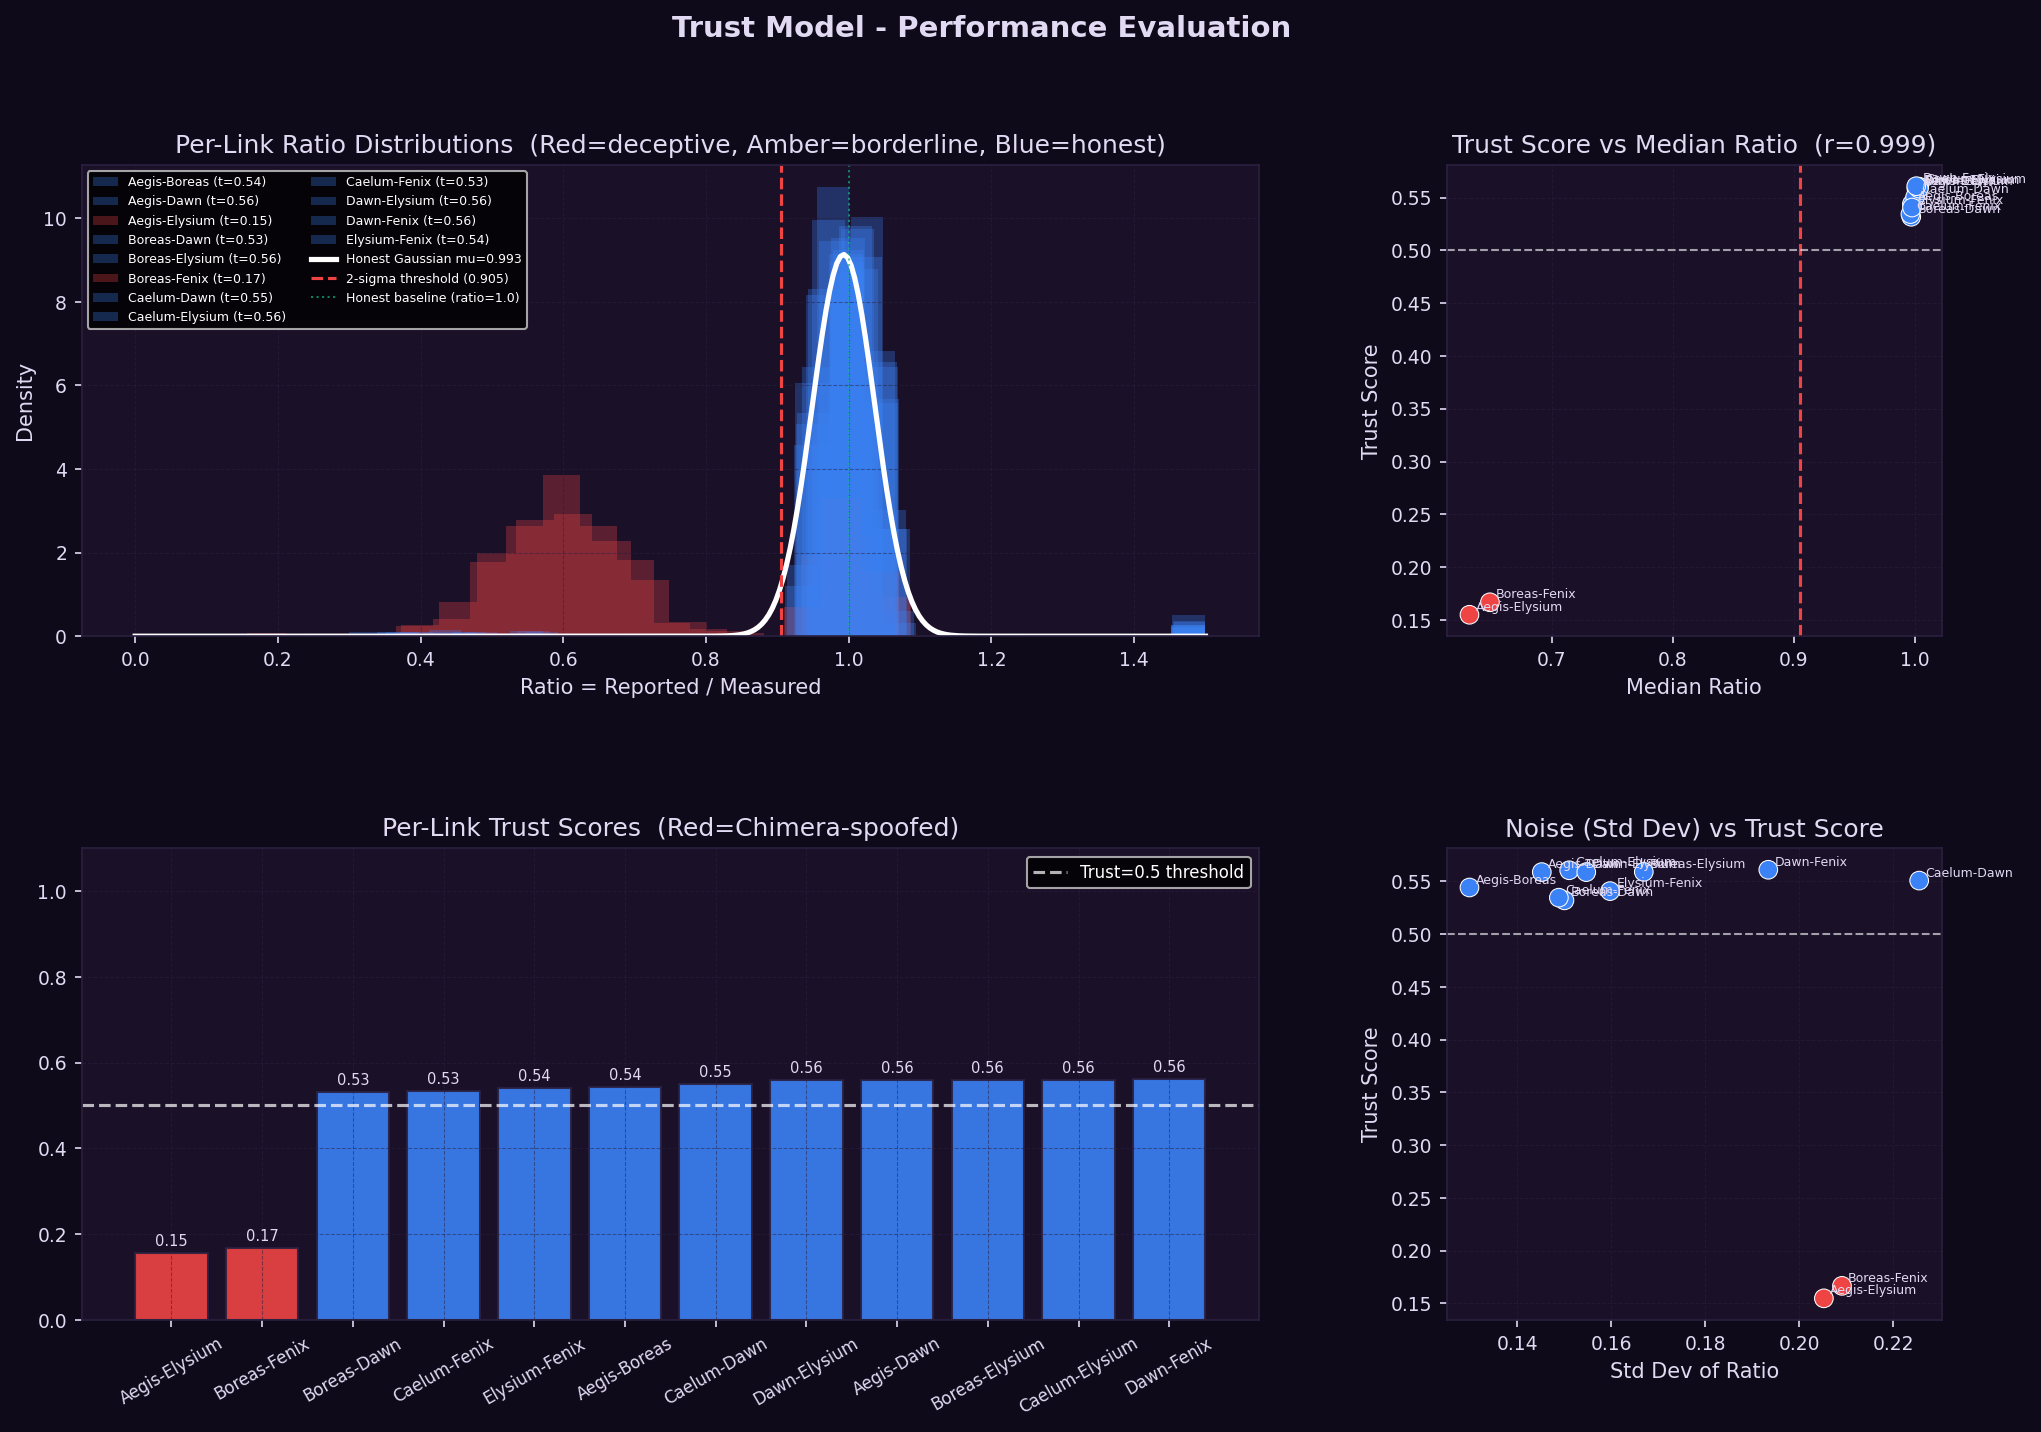
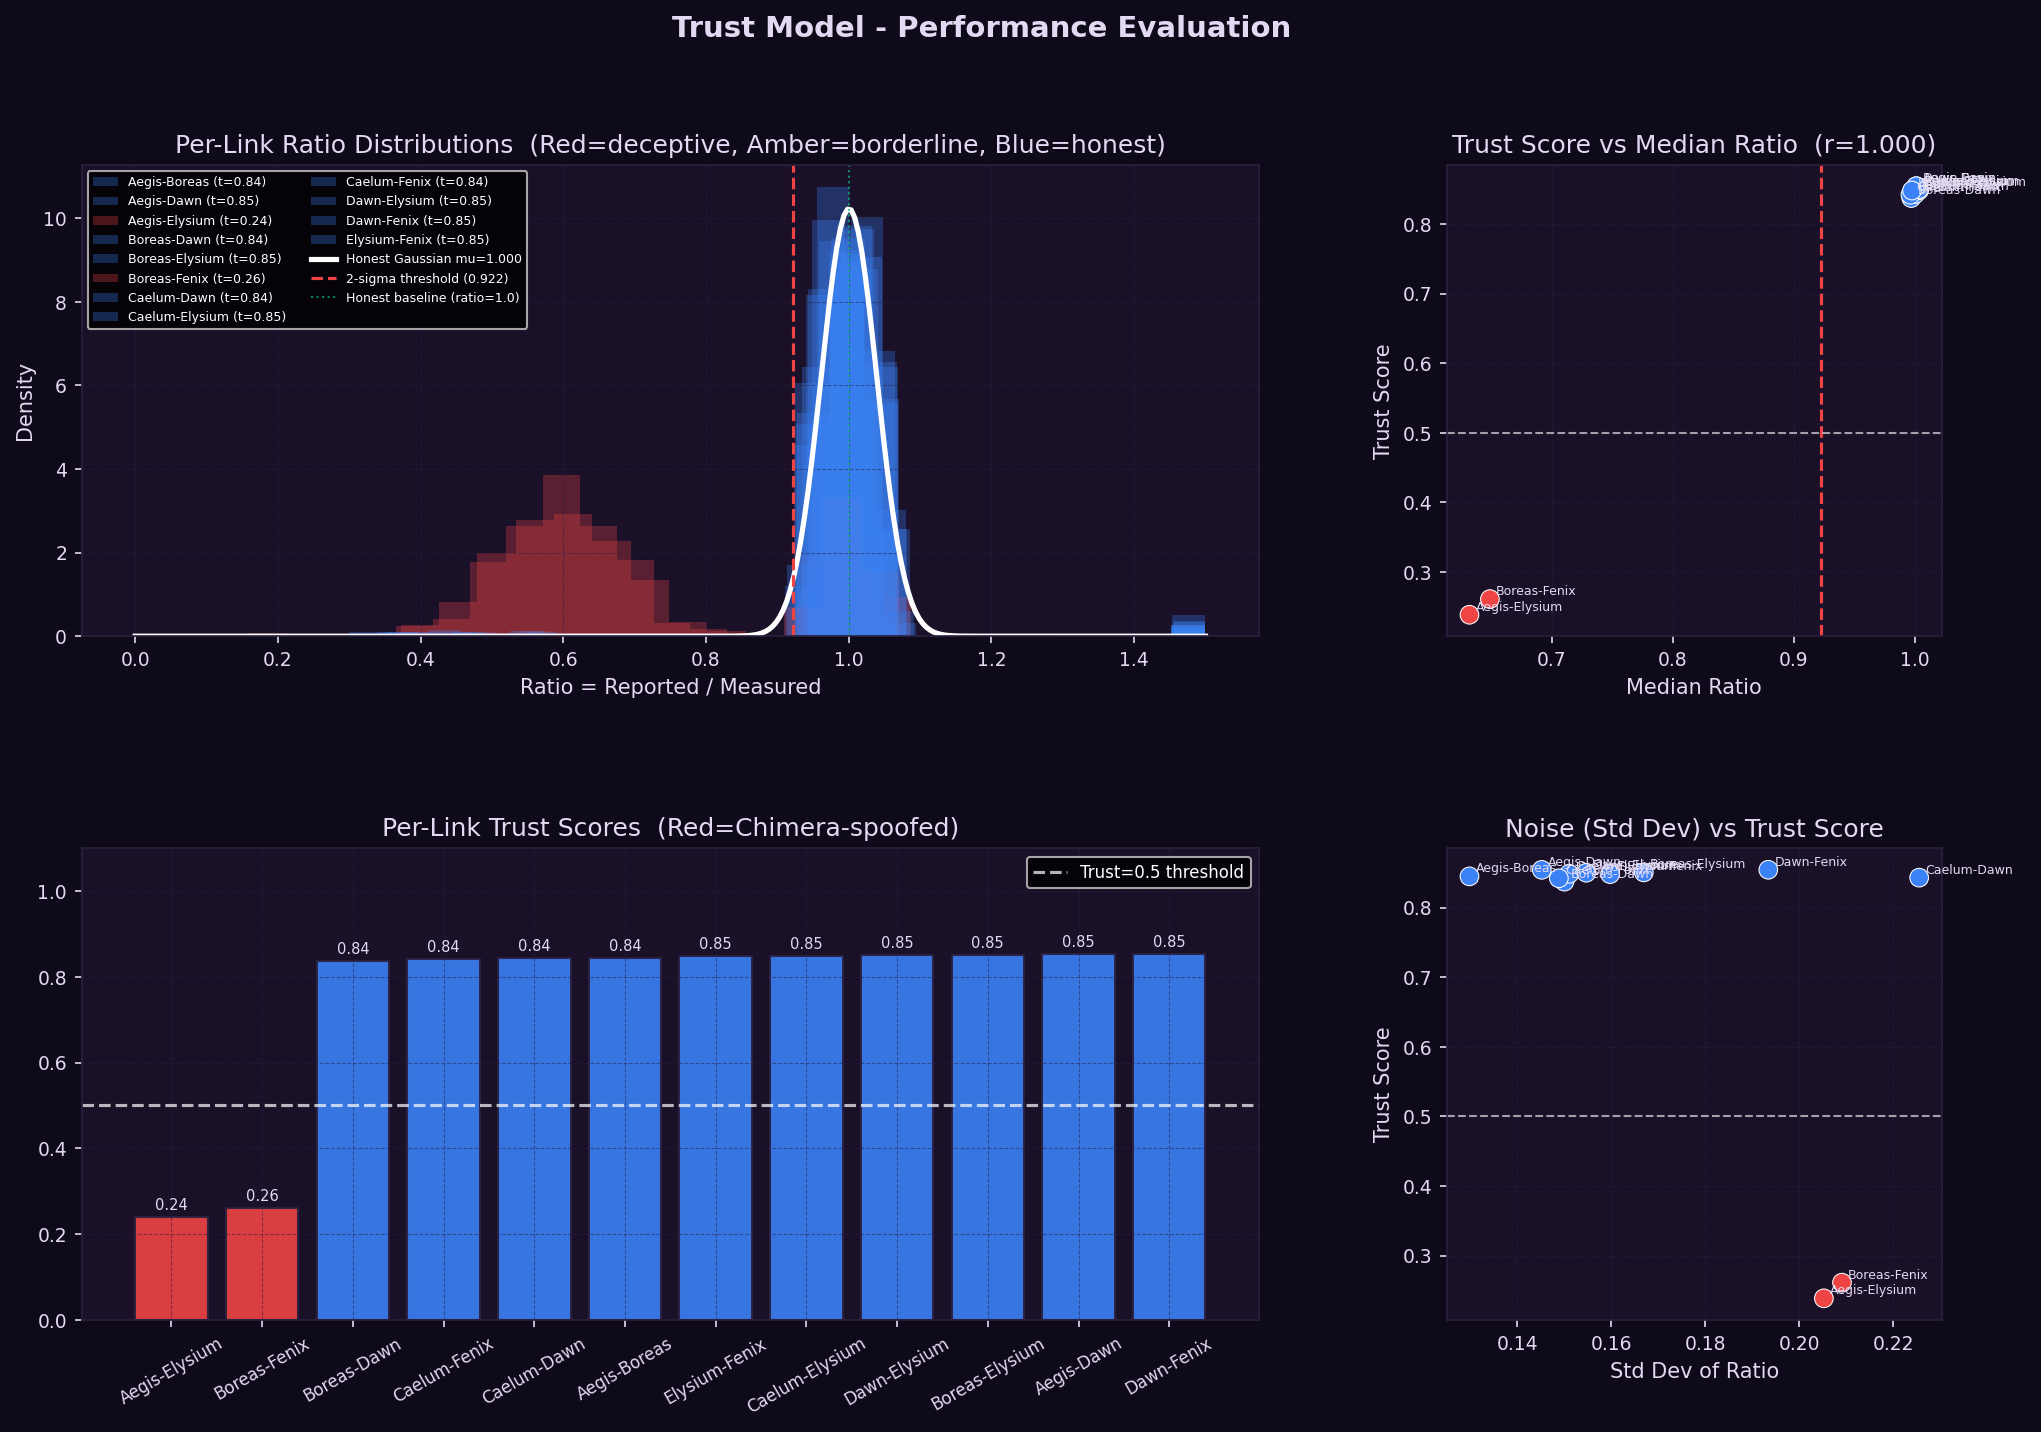
fix trust model

diff --git a/backend/training/train_trust_model.py b/backend/training/train_trust_model.py
@@ -15,14 +15,15 @@ def train_trust_model():
     """
     Bayesian Probabilistic Trust Model (Beta-distribution based).
     
-    Instead of training an ML classifier with an arbitrary threshold,
-    this model:
-      1. Computes ratio = self_reported / measured
+    Key design decisions:
+      1. Compute ratio = self_reported / measured
          (Chimera under-reports → ratio < 1.0; honest links → ratio ≈ 1.0)
-      2. Fits a Gaussian to the "honest bulk" of ratios (data-driven)
-      3. Uses P(deceptive) = CDF(ratio | mu, sigma) — how far below normal
-      4. Performs soft Bayesian updates: alpha += P(honest), beta += P(deceptive)
-      5. Stores per-link Beta(alpha, beta) parameters
+      2. Fit the honest distribution using ONLY honest links (two-pass robust estimation)
+      3. P(deceptive) is ONE-SIDED: only ratio << 1.0 is suspicious.
+         ratio ≈ 1.0 or ratio > 1.0 is honest (or noise).
+      4. Use a sigmoid centered at the 2-sigma lower threshold for smooth transition
+      5. Soft Bayesian update: alpha += P(honest), beta += P(deceptive)
+      6. Store per-link Beta(alpha, beta) parameters + median_ratio
     
     Trust score at inference = alpha / (alpha + beta)
     """
@@ -30,31 +31,59 @@ def train_trust_model():
     TELEMETRY_CSV = os.path.join(DATA_DIR, 'link_telemetry.csv')
     df = pd.read_csv(TELEMETRY_CSV)
     
-    # 1. Clean
+    # 1. Clean 
     df = df.dropna(subset=['self_reported_latency_ms', 'measured_latency_ms']).copy()
     df = df[df['measured_latency_ms'] > 0]  # Avoid division by zero
     
-    # 2. Compute ratio: reported / measured
+    # 2. Compute ratio 
     #    Honest link → ratio ≈ 1.0
     #    Chimera-spoofed link → ratio < 1.0 (reports faster than reality)
     df['ratio'] = df['self_reported_latency_ms'] / df['measured_latency_ms']
     
-    # 3. Fit a Gaussian to the "honest bulk" of the data
+    # 3. Two-pass robust estimation of the honest distribution ────────
+
+    # PASS 1: Fit robustly on ALL data using median/MAD.
     all_ratios = df['ratio'].values
-    median_ratio = np.median(all_ratios)
-    mad = np.median(np.abs(all_ratios - median_ratio))
-    robust_sigma = mad * 1.4826
+    median_pass1 = np.median(all_ratios)
+    mad_pass1 = np.median(np.abs(all_ratios - median_pass1))
+    sigma_pass1 = max(mad_pass1 * 1.4826, 1e-9)
     
-    mu_honest = median_ratio
-    sigma_honest = max(robust_sigma, 1e-9)  # Prevent zero
+    # Identify obviously deceptive links: per-link median ratio is more than
+    # 3 robust-sigma below the global median. These are clear outliers.
+    outlier_threshold = median_pass1 - 3 * sigma_pass1
+    per_link_median = df.groupby('link_id')['ratio'].median()
+    deceptive_links = set(per_link_median[per_link_median < outlier_threshold].index)
+    honest_links = set(per_link_median.index) - deceptive_links
     
-    print(f"  Honest distribution: mu={mu_honest:.4f}, sigma={sigma_honest:.4f}")
+    if deceptive_links:
+        print(f"  Pass 1: Identified {len(deceptive_links)} outlier link(s): {sorted(deceptive_links)}")
     
-    # 4. For each observation, compute P(deceptive)
-    df['p_deceptive'] = stats.norm.sf(df['ratio'], loc=mu_honest, scale=sigma_honest)
+    # PASS 2: Refit using ONLY honest links' observations.
+    # This gives an uncontaminated estimate of the honest distribution.
+    honest_ratios = df[df['link_id'].isin(honest_links)]['ratio'].values
+    mu_honest = float(np.median(honest_ratios))
+    mad_honest = np.median(np.abs(honest_ratios - mu_honest))
+    sigma_honest = float(max(mad_honest * 1.4826, 1e-9))
+    
+    print(f"  Pass 2 (honest only): mu={mu_honest:.4f}, sigma={sigma_honest:.4f}")
+    
+    # ── 4. Compute P(deceptive) — ONE-SIDED sigmoid ─────────────────────
+    # For ratio ABOVE threshold → p_deceptive ≈ 0 (clearly honest territory)
+    # For ratio AT threshold    → p_deceptive = 0.5
+    # For ratio BELOW threshold → p_deceptive → 1.0 (clearly deceptive)
+    
+    threshold = mu_honest - 2 * sigma_honest
+    steepness = 1.0 / sigma_honest  # Scale sigmoid by the honest distribution's width
+    
+    df['p_deceptive'] = 1.0 / (1.0 + np.exp(steepness * (df['ratio'] - threshold)))
     df['p_honest'] = 1.0 - df['p_deceptive']
     
-    # 5. Soft Bayesian update per link
+    # Sanity check: show what the sigmoid produces for key ratio values
+    for test_ratio in [1.0, 0.90, threshold, 0.65]:
+        p_d = 1.0 / (1.0 + np.exp(steepness * (test_ratio - threshold)))
+        print(f"    ratio={test_ratio:.4f} -> p_deceptive={p_d:.6f}")
+    
+    # ── 5. Soft Bayesian update per link ────────────────────────────────
     trust_params = {}
     
     for link_id, group in df.groupby('link_id'):
@@ -66,15 +95,14 @@ def train_trust_model():
         beta += group['p_deceptive'].sum()
         
         trust_score = alpha / (alpha + beta)
-        median_ratio = float(group['ratio'].median())
+        link_median_ratio = float(group['ratio'].median())
         trust_params[link_id] = {
             'alpha': alpha,
             'beta': beta,
-            'median_ratio': median_ratio  # Used at inference to correct self-reported latency
+            'median_ratio': link_median_ratio  # Used at inference to correct self-reported latency
         }
-        # print(f"  {link_id}: alpha={alpha:.2f}, beta={beta:.2f}, trust={trust_score:.4f}")
     
-    # 6. Compute global prior (average across all links) for unseen links
+    # ── 6. Compute global prior (average across all links) for unseen links
     all_alphas = [v['alpha'] for v in trust_params.values()]
     all_betas = [v['beta'] for v in trust_params.values()]
     global_prior = {
@@ -82,11 +110,15 @@ def train_trust_model():
         'beta': float(np.mean(all_betas))
     }
     
-    # 7. Save
+    # ── 7. Save ─────────────────────────────────────────────────────────
     model_data = {
         'links': trust_params,
         'global_prior': global_prior,
-        'honest_distribution': {'mu': mu_honest, 'sigma': sigma_honest}
+        'honest_distribution': {
+            'mu': mu_honest,
+            'sigma': sigma_honest,
+            'deception_threshold': float(threshold),
+        }
     }
     
     joblib.dump(model_data, os.path.join(MODELS_DIR, 'trust_model.pkl'))
